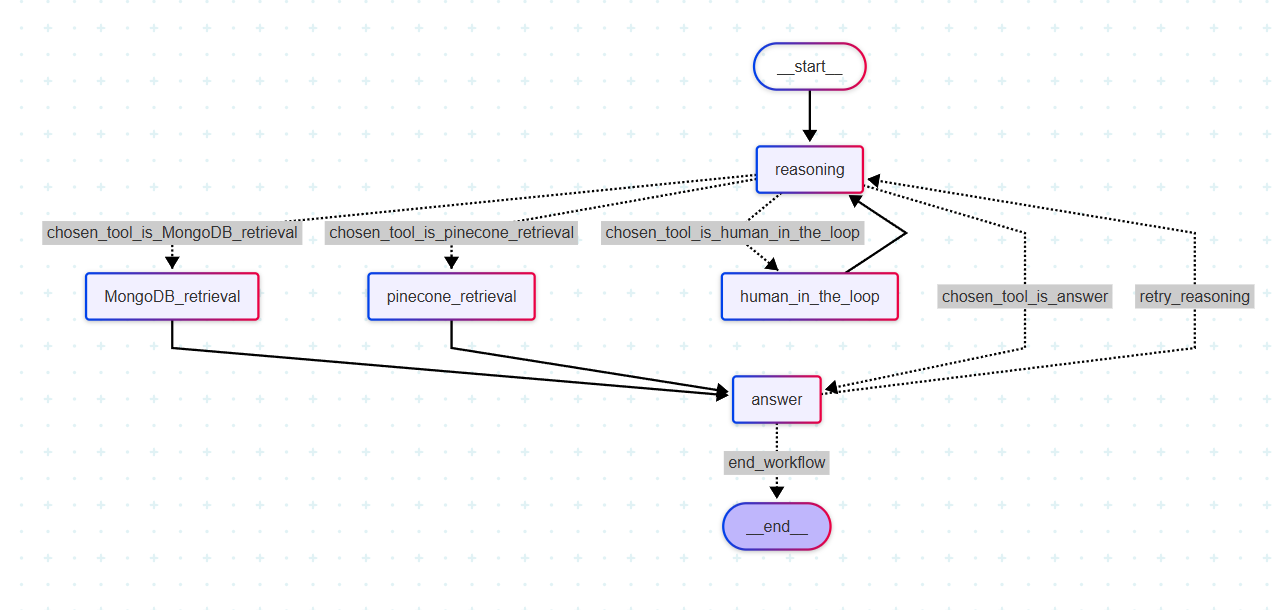
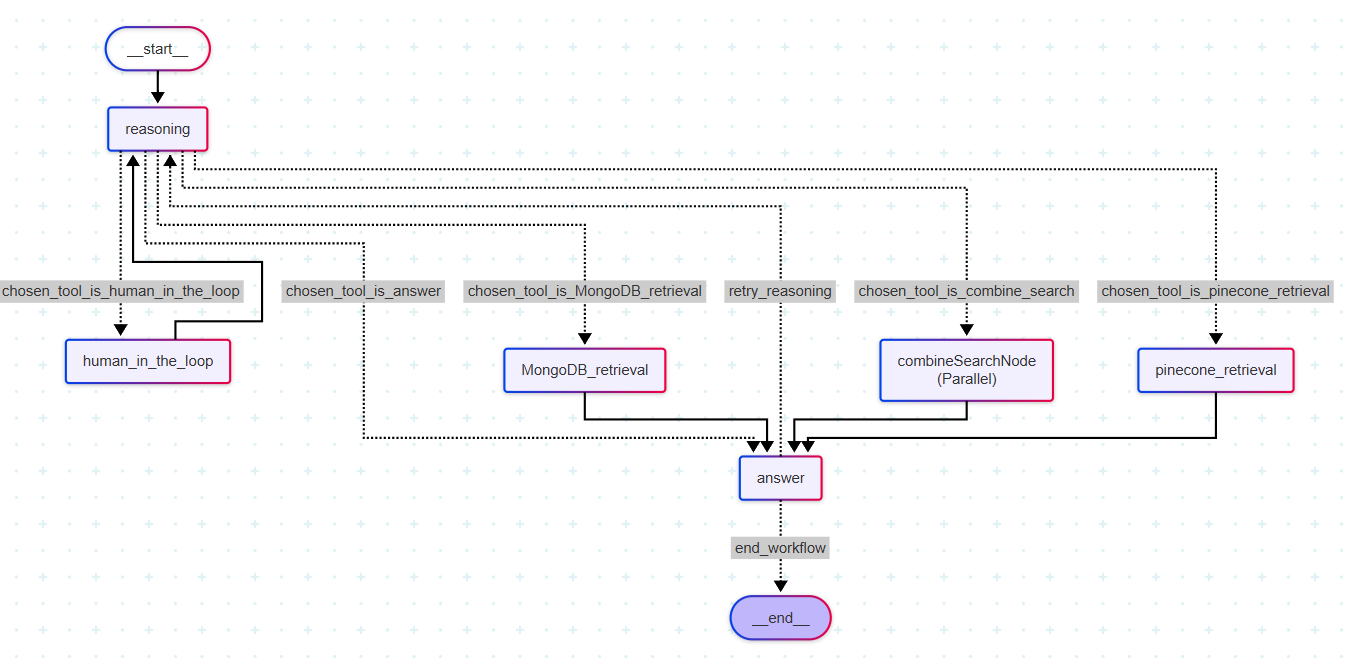
fix retry count

Changed region(s): [[0.0, 0.0311, 0.9953, 0.9656], [0.591, 0.0623, 0.6843, 0.1557], [0.8398, 0.3426, 0.902, 0.3738]]

diff --git a/src/graph/workflow.py b/src/graph/workflow.py
@@ -48,6 +48,13 @@ def retrieve_or_answer(state: PlanExecute):
         }
         state["reasoning_steps"].append(reasoning_step)
         return "chosen_tool_is_pinecone_retrieval"
+    elif state["tool"] == "combined_search":
+        reasoning_step = {
+            "stage": "decide_tool",
+            "content": f"Chosen tool is combine_search"
+        }
+        state["reasoning_steps"].append(reasoning_step)
+        return "chosen_tool_is_combine_search"
     elif state["tool"] == "Greet":
         reasoning_step = {
             "stage": "decide_tool",
@@ -126,7 +133,10 @@ def reasoningNode(state: PlanExecute):
     elif output.tool == "pinecone_retrieval":
         state["query_to_retrieve_or_answer"] = output.query
         state["tool"]="pinecone_retrieval"
-
+    elif output.tool == "combined_search":
+        state["query_to_retrieve_or_answer"] = output.query
+        state["curr_context"] = output.curr_context
+        state["tool"]="combined_search"
     elif output.tool == "Greet":
         state["query_to_retrieve_or_answer"] = output.query
         state["curr_context"] = output.curr_context
@@ -373,7 +383,6 @@ Guidelines:
 10 You must return the number of products.
 11. You must get image link from the products and show image.
 
-
 Context:
 {context}
 Your answer:"""
@@ -385,7 +394,7 @@ Your answer:"""
     )
 
     # Initialize the LLM
-    llm = ChatOpenAI(temperature=0.7, model_name="gpt-4o")
+    llm = ChatOpenAI(temperature=0, model_name="gpt-4o")
 
     # Generate the answer
     # print("Context:", state["curr_context"])
@@ -413,7 +422,7 @@ Your answer:"""
     """
     
     evaluation_response = client.chat.completions.create(
-        model="gpt-4o-mini",  # Using a faster model for evaluation
+        model="gpt-4o",  # Using a faster model for evaluation
         messages=[
             {"role": "system", "content": "You are a quality evaluation assistant."},
             {"role": "user", "content": evaluation_prompt}
@@ -427,7 +436,7 @@ Your answer:"""
     
     # Store the answer and quality assessment in state
     state["answer_quality"] = quality_assessment
-    print(response.content)
+    # print(response.content)
     # Update the state with the answer
     state["message"].append(HumanMessage(content=response.content))
 
@@ -443,6 +452,7 @@ Your answer:"""
     # print("Answer:")
     # print(state["message"])
     # print("--------------------------------")
+    state["retry_count"] = state["retry_count"] + 1
     return state
 
 def check_answer_quality(state: PlanExecute):
@@ -457,8 +467,9 @@ def check_answer_quality(state: PlanExecute):
     
     # Check if we've tried too many times (to prevent infinite loops)
     retry_count = state.get("retry_count", 0)
+    print(retry_count)
     # print(state['aggregated_context'])
-    if retry_count >= 1:
+    if retry_count >= 2:
         print("Maximum retry count reached, ending workflow")
         return "end_workflow"
     
@@ -468,7 +479,6 @@ def check_answer_quality(state: PlanExecute):
     else:
         print("Answer quality is POOR, retrying reasoning")
         # Increment retry count
-        state["retry_count"] = retry_count + 1
         # Optional: Append feedback to help improve next reasoning cycle
         state["aggregated_context"] += "\nNote: Previous answer was insufficient. Please provide more specific information."
 
@@ -508,12 +518,47 @@ def human_in_the_loopNode(state: PlanExecute):
 
     return state
 
+
+def combineSearchNode(state: PlanExecute):
+    """Retrieve information from both MongoDB and Pinecone and combine the results.
+    Args:
+        state: The current state of the plan execution.
+    Returns:
+        The updated state of the plan execution.
+    """
+    # Store original query
+    original_query = state["query_to_retrieve_or_answer"]
+    print(original_query)
+    # Run MongoDB retrieval
+    mongo_state = MongoDBretrievalNode(state.copy())
+    mongo_context = mongo_state["curr_context"]
+    
+    # Run Pinecone retrieval
+    pinecone_state = pineconeretrievalNode(state.copy())
+    pinecone_context = pinecone_state["curr_context"]
+
+    
+    # Combine results
+    state["curr_context"] = f"MongoDB Results:\n{mongo_context}\n\nPinecone Results:\n{pinecone_context}"
+    state["aggregated_context"] += "\n" + state["curr_context"]
+    
+    reasoning_step = {
+        "stage": "combined_search",
+        "content": f"Retrieved results from both MongoDB and Pinecone.\nQuery: {original_query}"
+    }
+    state["reasoning_steps"].append(reasoning_step)
+    
+    return state
+
+
+
 def create_workflow():
     agent_workflow = StateGraph(PlanExecute)
     agent_workflow.add_node("reasoning", reasoningNode)
     agent_workflow.add_node("MongoDB_retrieval", MongoDBretrievalNode)
     agent_workflow.add_node("pinecone_retrieval", pineconeretrievalNode)
     agent_workflow.add_node("answer", answerNode)
+    agent_workflow.add_node("combineSearchNode", combineSearchNode)
     agent_workflow.add_node("human_in_the_loop", human_in_the_loopNode)
     agent_workflow.add_edge(START, "reasoning")
     agent_workflow.add_conditional_edges(
@@ -523,13 +568,15 @@ def create_workflow():
             "chosen_tool_is_MongoDB_retrieval": "MongoDB_retrieval",
             "chosen_tool_is_pinecone_retrieval": "pinecone_retrieval",
             "chosen_tool_is_answer": "answer",
-            "chosen_tool_is_human_in_the_loop": "human_in_the_loop"
+            "chosen_tool_is_human_in_the_loop": "human_in_the_loop",
+            "chosen_tool_is_combine_search": "combineSearchNode"
         },
     )
 
     agent_workflow.add_edge("MongoDB_retrieval", "answer")
     agent_workflow.add_edge("pinecone_retrieval", "answer")
     agent_workflow.add_edge("human_in_the_loop", "reasoning")
+    agent_workflow.add_edge("combineSearchNode", "answer")
     agent_workflow.add_conditional_edges(
         "answer",
         check_answer_quality,

diff --git a/src/models/prompts.py b/src/models/prompts.py
@@ -19,10 +19,17 @@ Available Tools:
      * Complex natural language queries about cheese features
      * Searching based on product descriptions or attributes
    - Example queries: "Find cheese that's good for pizza", "What cheese is similar to brie?", "Show me creamy Italian cheeses"
-3. Greet the user (Tool C)
+
+3. Combined Search (Tool E)
+   - Use this tool when the query requires:
+     But use less this tool.
+     * Both specific product information AND semantic understanding
+   - Example queries: 
+     * "Find cheeses under 100$ price similar with Sliced Cheese."
+4. Greet the user (Tool C)
    - Use this tool when the query is a greeting
    - Example queries: "hello", "hi", "hey"
-4. Human-in-the-Loop (Tool D)
+5. Human-in-the-Loop (Tool D)
    - Use this tool when:
      * The query lacks sufficient information to provide a meaningful response
      * The query is ambiguous or unclear
@@ -39,7 +46,11 @@ Your task:
    - Identify what information is missing or unclear
    - Formulate specific questions to ask the user for clarification
    - Explain why the current query is insufficient
-
+5. For Tool E:
+   - Generate a clear, specific query that will retrieve the most relevant information
+   - For Tool E, specify that both MongoDB_retrieval and pinecone_retrieval should be used
+   - Specify which tool(s) to use ("combined_search")
+   - Incorporate any relevant information from human feedback into the query
 Important Guidelines:
 - Always consider the user's intent and the type of information they're seeking
 - For price-related queries, prefer MongoDB search

diff --git a/app.py b/app.py
@@ -203,7 +203,8 @@ if not st.session_state.show_modal:
                 "tool": "",
                 "curr_state": "",
                 "answer_quality": "GOOD",
-                "human_feedback": ""
+                "human_feedback": "",
+                "retry_count": 0
             }
             
             with st.spinner("Thinking..."):

diff --git a/src/models/schema.py b/src/models/schema.py
@@ -11,6 +11,7 @@ class PlanExecute(TypedDict):
     answer_quality: str
     human_feedback: str
     reasoning_steps:List[dict]
+    retry_count: int
 
 class MongoQuery(BaseModel):
     """Schema for MongoDB query generation."""
